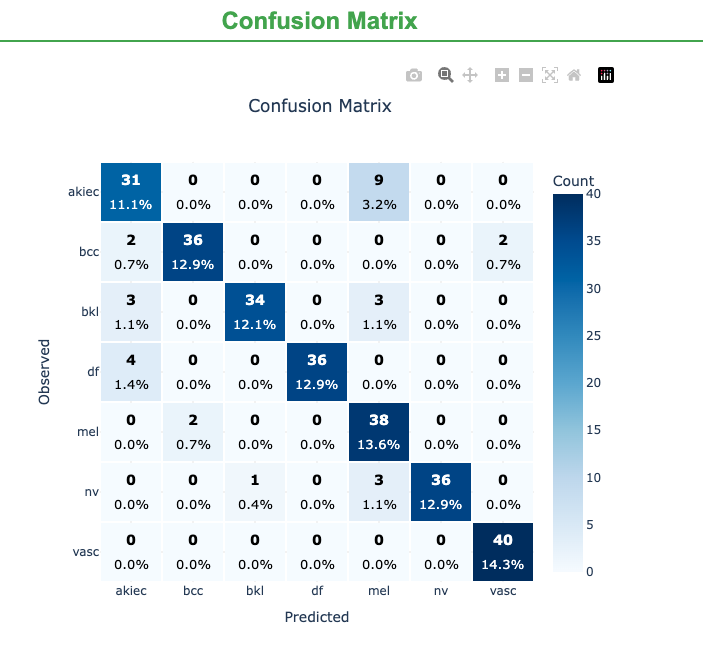
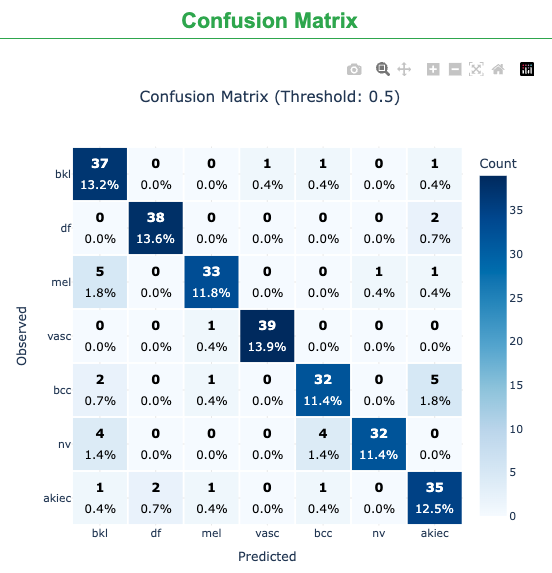
leakage‑aware testing

diff --git a/topics/statistics/tutorials/image_learner/tutorial.md b/topics/statistics/tutorials/image_learner/tutorial.md
@@ -11,7 +11,7 @@ objectives:
   - "Prepare a balanced HAM10000 subset and perform a stratified 70/10/20 train/validation/test split."
   - "Train an Image Learner model using a pretrained CaFormer S18 384 backbone."
   - "Evaluate performance using accuracy and weighted precision/recall/F1, and inspect confusion patterns."
-time_estimation: "45m"
+time_estimation: "1h"
 key_points:
 - Use Galaxy tools (Image Learner) to build a deep learning model for skin lesion classification based on the HAM10000 dataset.
 - Understand the dataset composition and the importance of data augmentation to handle class imbalance.
@@ -100,6 +100,21 @@ The preprocessed dataset provides balanced representation:
 
 This balanced dataset allows the Image Learner model to learn effectively from all lesion types without bias toward the majority class.
 
+## Metadata Columns (HAM10000 CSV)
+
+The metadata CSV now includes additional fields while keeping the same number of samples and the same flip augmentation strategy. Each row corresponds to one image file.
+
+| Column | Description |
+|---|---|
+| `lesion_id` | Lesion identifier used to group original and augmented images from the same lesion. |
+| `image_id` | Image identifier from the source dataset (shared by original and flipped versions). |
+| `dx` | Diagnosis label (target class). |
+| `dx_type` | Diagnosis confirmation method (for example, `histo`). |
+| `age` | Patient age in years. |
+| `sex` | Patient sex (`male`/`female`/`unknown`). |
+| `localization` | Anatomical site of the lesion. |
+| `image_path` | Image filename within the image ZIP. |
+
 > <tip-title>Why Horizontal Flip Augmentation?</tip-title>
 >
 > Following the preprocessing pipeline described by {% cite Shetty2022 %}, **horizontal flip augmentation** is applied during dataset preparation. Horizontal flips:
@@ -114,31 +129,6 @@ This balanced dataset allows the Image Learner model to learn effectively from a
 > ![Example of horizontal flip augmentation applied to a skin lesion image.](../../images/skin_tutorial/horizontal_flip_augmentation.png "Example of horizontal flip augmentation. Adapted from {% cite Shetty2022 %}.")
 >
 {: .tip}
-
-# Model Configuration in GLEAM Image Learner
-
-After uploading the dataset, configure the Image Learner parameters as follows. These settings are based on best practices for dermoscopic image classification and have been optimized for the HAM10000 dataset:
-
-> <tip-title>Data Split Configuration</tip-title>
->
-> The Image Learner tool automatically applies a **stratified 70/10/20 train/validation/test split** by default when no split column is present in the metadata CSV file. This ensures balanced representation of all classes across the three datasets. The stratified split maintains the same class distribution in each split, which is particularly important for imbalanced datasets. If you want to use a custom split, you can add a `split` column to your metadata CSV with values 0 (train), 1 (validation), or 2 (test).
->
-{: .tip}
-
-| Parameter | Value | Rationale |
-|---|---|---|
-| Task Type | Classification | Multi-class image classification task |
-| Model Name | caformer_s18_384 | Efficient transformer-based model ([CAFormer S18 384](https://github.com/sail-sg/metaformer/blob/main/metaformer_baselines.py)) |
-| Epochs | 30 | Sufficient for convergence without overfitting |
-| Batch Size | 32 | Balances memory and gradient stability |
-| Fine Tune | True | Leverage pre-trained features for better performance |
-| Use Pretrained | True | Transfer learning from ImageNet-trained weights |
-| Learning Rate | 0.001 | Conservative learning rate for fine-tuning |
-| Random Seed | 42 | Reproducible results across runs |
-| Data Split | 70/10/20 | Standard split for training/validation/test (automatically applied when no split column exists in metadata CSV) |
-| Data Augmentation | Horizontal Flip | Address class imbalance and improve generalization |
-
-![Model and training summary interface in GLEAM Image Learner.](../../images/skin_tutorial/image_classification_results_summary.png "Model and training summary interface")
 
 # Using Image Learner Tool
 
@@ -159,8 +149,8 @@ After uploading the dataset, configure the Image Learner parameters as follows. 
 > 2. Import the dataset files from Zenodo
 >
 >    ```
->    https://zenodo.org/records/17114688/files/images_96.zip
->    https://zenodo.org/records/17114688/files/image_metadata_new.csv
+>    https://zenodo.org/records/18284218/files/selected_HAM10000_img_96_size.zip
+>    https://zenodo.org/records/18392041/files/selected_HAM10000_img_metadata_aug.csv
 >    ```
 >
 >    {% snippet faqs/galaxy/datasets_import_via_link.md %}
@@ -187,6 +177,8 @@ After uploading the dataset, configure the Image Learner parameters as follows. 
 >
 {: .hands_on}
 
+# Model Configuration in GLEAM Image Learner
+
 ## Tool setup and run
 
 After uploading the dataset, configure the Image Learner parameters as follows. These settings are based on best practices for dermoscopic image classification and have been optimized for the HAM10000 dataset.
@@ -197,32 +189,46 @@ After uploading the dataset, configure the Image Learner parameters as follows. 
 >    - {% icon param-file %} *The metadata csv containing image_path column, label column*: `image_metadata_new.csv`
 >    - {% icon param-file %} *Image zip*: `images_96.zip`
 >    - {% icon param-select %} *Task Type*: `Multi-class Classification`
+>    - {% icon param-select %} *Overwrite label and/or image column names?*: `Yes`
+>    - {% icon param-text %} *Target/label column name*: `c3: dx`
+>    - {% icon param-text %} *Image column name*: `c8: image_path`
 >    - {% icon param-select %} *Select a model for your experiment*: `CAFormer S18 384`
+>    - {% icon param-select %} *Image Augmentation*: `Select all`
 >    - {% icon param-select %} *Customize Default Settings*: `Yes`
 >    - {% icon param-text %} *Epochs*: `30`
->    - {% icon param-text %} *Define your batch size*: `Yes`
->    - {% icon param-text %} *Batch Size*: `32`
+>    - {% icon param-text %} *Early Stop*: `30`
 >
 > 2. Run training and review the generated evaluation report.
 >
 {: .hands_on}
 
+These settings are based on best practices for image classification and have been optimized for the HAM10000 dataset.
+
 > <tip-title>Recommended Image Learner configuration (and why)</tip-title>
 >
-> | Parameter | Rationale |
-> |---|---|
-> | Task Type | Multi-class image classification task |
-> | Model Name | Efficient transformer-based model |
-> | Epochs | Sufficient for convergence without overfitting |
-> | Batch Size | Balances memory and gradient stability |
-> | Fine Tune | Leverage pre-trained features for better performance |
-> | Use Pretrained | Transfer learning from ImageNet-trained weights |
-> | Learning Rate | Conservative learning rate for fine-tuning |
-> | Random Seed | Reproducible results across runs |
-> | Data Split | Standard split for training/validation/test |
-> | Data Augmentation | Improve generalization |
+> | Parameter | Value | Rationale |
+> |---|---|---|
+> | Task Type | Classification | Multi-class image classification task |
+> | Label column | `dx` | Target diagnosis label |
+> | Image column | `image_path` | Image filename in the ZIP archive |
+> | Model Name | caformer_s18_384 | Efficient transformer-based model ([CAFormer S18 384](https://github.com/sail-sg/metaformer/blob/main/metaformer_baselines.py)) |
+> | Epochs | 30 | Sufficient for convergence without overfitting |
+> | Early Stop | 30 | Stop when validation metrics stall to avoid overfitting |
+> | Fine Tune | True | Leverage pre-trained features for better performance |
+> | Use Pretrained | True | Transfer learning from ImageNet-trained weights |
+> | Learning Rate | 0.001 | Conservative learning rate for fine-tuning |
+> | Random Seed | 42 | Reproducible results across runs |
+> | Data Split | 70/10/20 | Standard split for training/validation/test (automatically applied when no split column exists in metadata CSV) |
+> | Data Augmentation | Horizontal and Vertical Flip; Rotate; Blur; Brightness; Contrast | Improve generalization |
+{: .tip}
+
+> <tip-title>Data Split Configuration</tip-title>
+>
+> The Image Learner tool automatically applies a **stratified 70/10/20 train/validation/test split** by default when no split column is present in the metadata CSV file. Per-class counts can differ by a few samples due to rounding. This ensures balanced representation of all classes across the three datasets. The stratified split maintains the same class distribution in each split, which is particularly important for imbalanced datasets. If you want to use a custom split, you can add a `split` column to your metadata CSV with values 0 (train), 1 (validation), or 2 (test).
 >
 {: .tip}
+
+![GLEAM Image Learner tool interface.](../../images/skin_tutorial/tool_configuration_interface.png "GLEAM Image Learner tool interface")
 
 ## Tool Output Files
 
@@ -253,7 +259,7 @@ This tab combines dataset composition, overall metrics, and configuration detail
 - **Training Configuration**: Model architecture, image size, augmentation, split strategy, optimizer, learning rate, epochs, early stopping, and random seed.
 - **Metrics Help**: A "Help" button that opens a glossary explaining each metric.
 
-![Model and training summary interface in GLEAM Image Learner.](../../images/skin_tutorial/image_classification_results_summary.png "Model and training summary interface")
+![Model and training summary interface in GLEAM Image Learner.](../../images/skin_tutorial/training_config.png "Model and training summary interface")
 
 ## Training and Validation Results
 
@@ -272,7 +278,7 @@ The test tab provides final evaluation plots and metrics:
 - **Prediction Confidence**: Test-set confidence distributions.
 - **Grad-CAM Heatmaps**: Visual explanations for convolutional backbones when available.
 
-![Test Performance Summary - Accuracy and Loss Progression](../../images/skin_tutorial/test_performance_summary.png "Test Performance Summary")
+![Test Performance Summary - Accuracy and Loss Progression](../../images/skin_tutorial/test_metrics.png "Test Performance Summary")
 
 These weighted metrics indicate balanced performance across classes under the explicitly balanced split. The report also includes ROC-AUC and Cohen's Kappa for additional discrimination and agreement context.
 
@@ -308,31 +314,48 @@ The confusion matrix provides a detailed breakdown of correct and incorrect pred
 
 # Comparison with Shetty et al. (2022)
 
-To contextualize our results, we compare against the CNN results reported by Shetty et al. (2022) on a balanced HAM10000 dataset {% cite Shetty2022 %}. We also include results from training CaFormer S18 384 on the original imbalanced HAM10000 dataset to demonstrate the impact of dataset preprocessing strategies.
+To contextualize our results, we compare against the CNN results reported by Shetty et al. (2022) on HAM10000 {% cite Shetty2022 %}.
 
-| Metric | Shetty et al., 2022 (CNN, balanced dataset) | Image Learner (original imbalanced dataset) | Image Learner (balanced dataset, this tutorial) |
+| Metric | Shetty et al., 2022 (CNN) | Image Learner (this tutorial) |
 |---|---:|---:|
- Accuracy | 0.86 (86%) | 0.8180 (81.80%) | 0.9036 (90.36%) |
-| Precision | 0.88 (88%) | 0.8249 (82.49%) | 0.9102 (91.02%) |
-| Recall | 0.85 (85%) | 0.8180 (81.80%) | 0.9036 (90.36%) |
-| F1-Score | 0.86 (86%) | 0.8206 (82.06%) | 0.9063 (90.63%) |
-| ROC-AUC | Not reported | 0.9787 (97.87%) | 0.9880 (98.80%) |
-| Cohen's Kappa | Not reported | 0.7945 | 0.8875 |
+| Accuracy | 0.94 (94%) | 0.88 (88%) |
+| Weighted Precision | 0.88 (88%) | 0.88 (90%) |
+| Weighted Recall | 0.85 (85%) | 0.88 (90%) |
+| Weighted F1-Score | 0.86 (86%) | 0.88 (90%) |
 
-> <comment-title>Dataset Comparison Note</comment-title>
->
-> > This table compares three approaches: (1) Shetty et al. (2022) used a balanced dataset with CNN architecture, (2) Image Learner trained on the original imbalanced HAM10000 dataset (10,015 images with severe class imbalance) without preprocessing or augmentation using CaFormer S18 384, and (3) Image Learner trained on a balanced dataset (1,400 images, 200 per class) with preprocessing and augmentation using CaFormer S18 384. The original imbalanced dataset results demonstrate the baseline performance, while both balanced dataset approaches show improved performance, with our preprocessing strategy achieving the highest accuracy (90.36% vs. 86%).
->
-{: .comment}
+# Data Leakage-Aware Experiment (Sample ID)
 
-## Key takeaways
-- **Image Learner with balanced dataset outperforms both the reference CNN and the same model on original imbalanced data** across all comparable metrics.
-- On the original imbalanced dataset (10,015 images), CaFormer S18 384 achieves 81.80% accuracy and 97.87% ROC-AUC, demonstrating baseline performance without preprocessing.
-- Shetty et al. (2022) achieved 86% accuracy using a balanced dataset with CNN architecture.
-- With our balanced dataset preprocessing and augmentation strategy, Image Learner achieves 90.36% accuracy (vs. 86% in Shetty et al.) and 98.80% ROC-AUC, showing the significant impact of data preprocessing strategies.
-- The balanced dataset approach improves accuracy by 8.56 percentage points compared to training on the original imbalanced dataset, highlighting the importance of addressing class imbalance in medical imaging datasets.
-- Differences from Shetty et al. (2022) may reflect our use of transfer learning with a modern transformer-based architecture (caformer_s18_384) vs. traditional CNN, as well as evaluation methodology.
+We repeat the same experiment but add a feature selection to prevent leakage across splits:
+
+- {% icon param-select %} *Sample ID column (optional)*: `c1: lesion_id`
+
+![Data leakage-aware configuration](../../images/skin_tutorial/training_config_2.png "Data leakage-aware configuration")
+
+## Data Leakage-Aware Results
+
+When we keep original and flipped images from the same lesion in the same split, the metrics drop:
+
+| Metric | Image Learner (leakage-aware split) |
+|---|---:|
+| Accuracy | 0.66 |
+| Weighted Precision | 0.66 |
+| Weighted Recall | 0.66 |
+| Weighted F1-Score | 0.66 |
+
+This reduction reflects a more realistic evaluation because the model no longer sees near-duplicate images across training and test splits.
+
+![Data leakage-aware metric results](../../images/skin_tutorial/test_metrics_2.png "Data leakage-aware metric results")
+
+# Key takeaways
+- **Image Learner shows slightly lower accuracy** (0.88 vs. 0.94) but **higher weighted precision/recall/F1** (0.90 vs. 0.88/0.85/0.86).
+- The balanced split comparison aligns with the published benchmark and shows strong weighted metrics under the same evaluation style.
+- The leakage-aware split provides a more conservative, realistic estimate by keeping original and flipped images from the same lesion together.
 - Image Learner provides publication-ready metrics and visualizations with full reproducibility through Galaxy.
+
+# Tutorial takeaways
+- The Image Learner comparison is competitive with the published CNN benchmark on the balanced HAM10000 subset.
+- Leakage-aware splitting prevents inflated performance and is essential when augmentations create near-duplicate images.
+- The tool makes it easy to enforce leakage-aware splits while keeping diagnostics transparent and reproducible.
 
 # Conclusion
 
@@ -342,4 +365,4 @@ In this tutorial, we used the Galaxy Image Learner tool to build and evaluate a 
 - Configure and train the model.
 - Review test metrics and diagnostic plots, and compare results to the Shetty et al. benchmark.
 
-The model achieved ~90% accuracy with balanced weighted precision/recall/F1 of ~0.90, demonstrating strong performance with transparent diagnostics in a reproducible workflow. These steps generalize to other biomedical image-classification tasks.
+The model achieved ~88% accuracy with balanced weighted precision/recall/F1 of ~0.90 under the balanced split, and ~0.66 across metrics under the leakage-aware split. These steps generalize to other biomedical image-classification tasks while highlighting the importance of leakage-aware evaluation.
